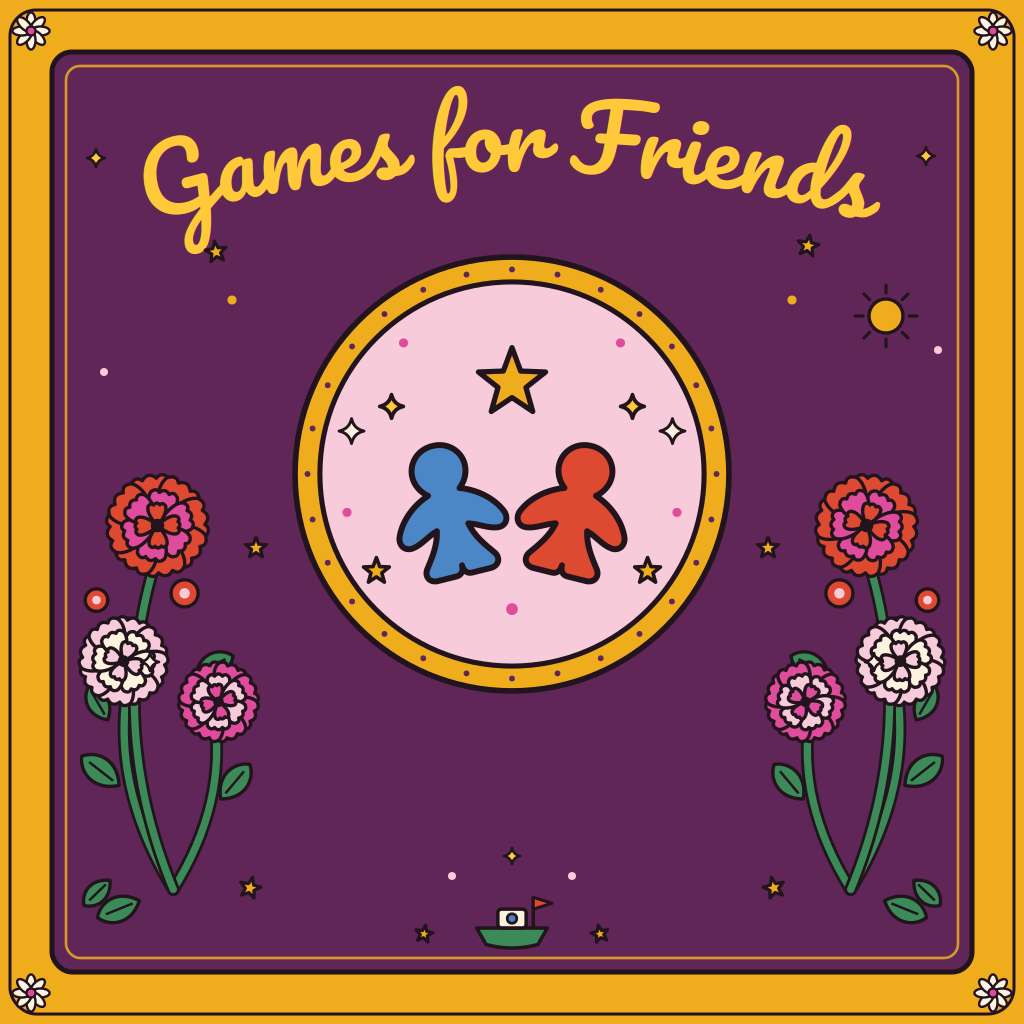
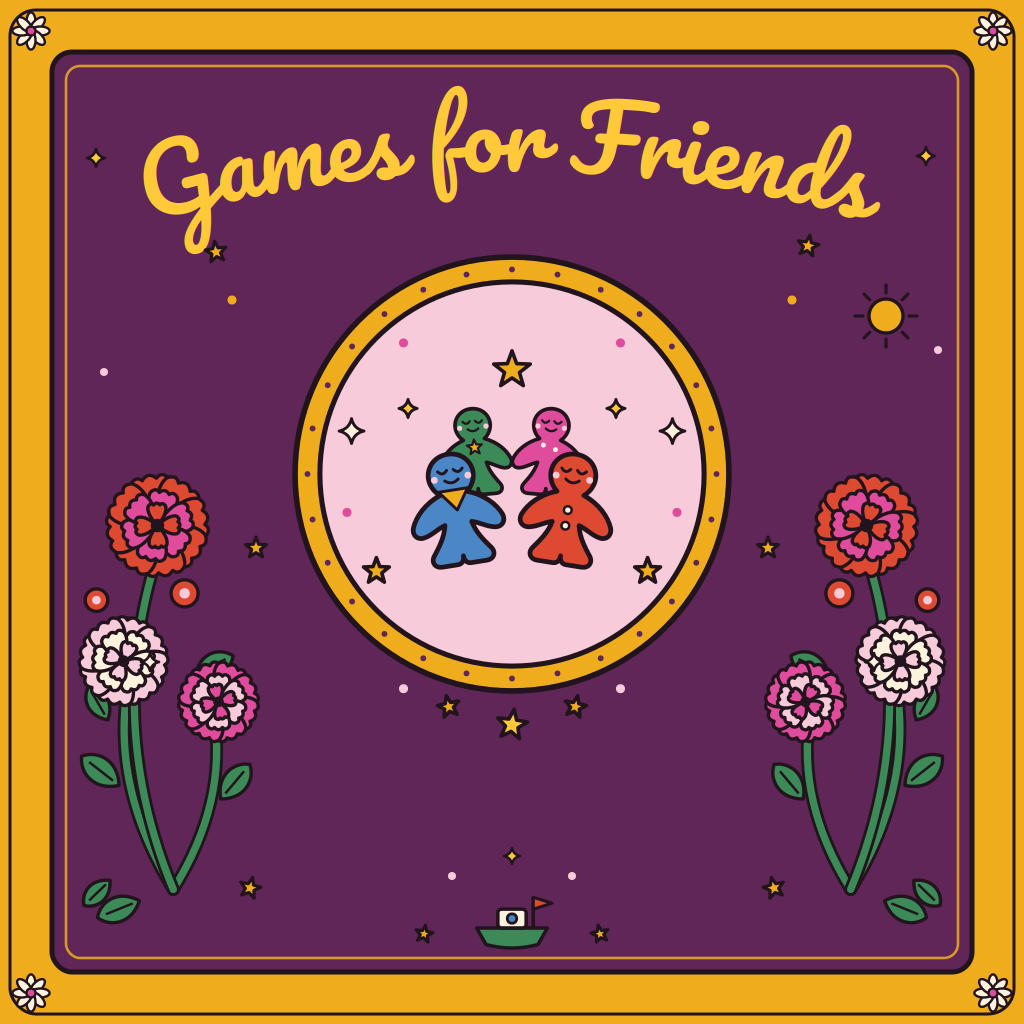
Rework meeple variant: four detailed meeples, star spray below medallion
The meeple medallion now holds a group of four (blue with a bandana,
red with buttons, green with a star, magenta with polka dots), each
with the closed-eye folk face treatment from the reference aesthetic,
plus a spray of stars beneath the medallion circle.

Claude-Session: https://claude.ai/code/session_015dDhKHacmCBczbXkWBN9qA

diff --git a/Artwork/generate_cover_art.py b/Artwork/generate_cover_art.py
@@ -303,25 +303,63 @@ MEEPLE = ("M0,-46 C12,-46 20,-37 20,-27 C20,-21 17,-15 12,-11 "
           "C-20,34 -14,26 -12,16 C-19,18 -25,23 -32,24 C-38,25 -42,20 -40,14 "
           "C-36,4 -26,-6 -12,-11 C-17,-15 -20,-21 -20,-27 C-20,-37 -12,-46 0,-46 Z")
 
+def meeple(x, y, rot, scale, fill, trim):
+    """One folk meeple with a face and a personal touch, drawn like the
+    reference tins: closed happy eyes, rosy cheeks, ink outline."""
+    add(f'<g transform="translate({x} {y}) rotate({rot}) scale({scale})">')
+    add(f'<path d="{MEEPLE}" fill="{fill}" stroke="{INK}" stroke-width="4.2" '
+        f'stroke-linejoin="round"/>')
+    # face: closed eyes + smile + blush
+    add(f'<g stroke="{INK}" stroke-width="2.6" fill="none" stroke-linecap="round">'
+        f'<path d="M -11 -32 Q -7 -27 -3 -32"/>'
+        f'<path d="M 3 -32 Q 7 -27 11 -32"/>'
+        f'<path d="M -6 -23 Q 0 -18 6 -23"/></g>')
+    dot(-15, -25, 3.0, BLUSH)
+    dot(15, -25, 3.0, BLUSH)
+    if trim == "scarf":
+        add(f'<path d="M -13 -14 L 13 -14 L 1 4 Z" fill="{GOLD}" stroke="{INK}" '
+            f'stroke-width="2.6" stroke-linejoin="round"/>')
+    elif trim == "buttons":
+        dot(0, 4, 3.4, CREAM, sw=2.2)
+        dot(0, 18, 3.4, CREAM, sw=2.2)
+    elif trim == "star":
+        pts = []
+        for i in range(10):
+            rr = 9 if i % 2 == 0 else 3.8
+            a = math.radians(-90 + i * 36)
+            pts.append((rr * math.cos(a), -2 + rr * math.sin(a)))
+        add(f'<polygon points="{P(pts)}" fill="{GOLD}" stroke="{INK}" '
+            f'stroke-width="2.4" stroke-linejoin="round"/>')
+    elif trim == "dots":
+        dot(-7, -4, 2.8, CREAM)
+        dot(7, 0, 2.8, CREAM)
+    add('</g>')
+
 def center_meeples():
-    """Two meeples leaning together under a shared star: friends first."""
-    add(f'<g transform="translate({gx} {gy}) scale(1.3)">')
-    add(f'<g transform="translate(-44 22) rotate(-14) scale(0.92)">'
-        f'<path d="{MEEPLE}" fill="{BLUE}" stroke="{INK}" stroke-width="4.4" '
-        f'stroke-linejoin="round"/></g>')
-    add(f'<g transform="translate(44 22) rotate(14) scale(0.92)">'
-        f'<path d="{MEEPLE}" fill="{RED}" stroke="{INK}" stroke-width="4.4" '
-        f'stroke-linejoin="round"/></g>')
+    """A little crowd of meeples: game night, everyone's invited."""
+    add(f'<g transform="translate({gx} {gy})">')
+    # back row peeks over the front row
+    meeple(-33, -22, -5, 0.78, GREEN, "star")
+    meeple(33, -22, 5, 0.78, MAGENTA, "dots")
+    # front row
+    meeple(-50, 28, -9, 1.0, BLUE, "scarf")
+    meeple(50, 28, 9, 1.0, RED, "buttons")
+    # shared star overhead
     pts = []
     for i in range(10):
-        rr = 24 if i % 2 == 0 else 10
+        rr = 17 if i % 2 == 0 else 7
         a = math.radians(-90 + i * 36)
-        pts.append((rr * math.cos(a), -62 + rr * math.sin(a)))
+        pts.append((rr * math.cos(a), -92 + rr * math.sin(a)))
     add(f'<polygon points="{P(pts)}" fill="{GOLD}" stroke="{INK}" '
-        f'stroke-width="3.6" stroke-linejoin="round"/>')
-    sparkle(-82, -46, 8, GOLD_HI)
-    sparkle(82, -46, 8, GOLD_HI)
-    dot(0, 92, 4, MAGENTA)
+        f'stroke-width="3.2" stroke-linejoin="round"/>')
+    sparkle(-92, -58, 8, GOLD_HI)
+    sparkle(92, -58, 8, GOLD_HI)
+    # spray of stars below the medallion circle
+    star5(-56, 206, 10, GOLD, rot=-12)
+    star5(0, 222, 14, GOLD_HI, rot=8)
+    star5(56, 206, 10, GOLD, rot=12)
+    dot(-96, 190, 4, BLUSH)
+    dot(96, 190, 4, BLUSH)
     add('</g>')
 
 def center_tiles():
